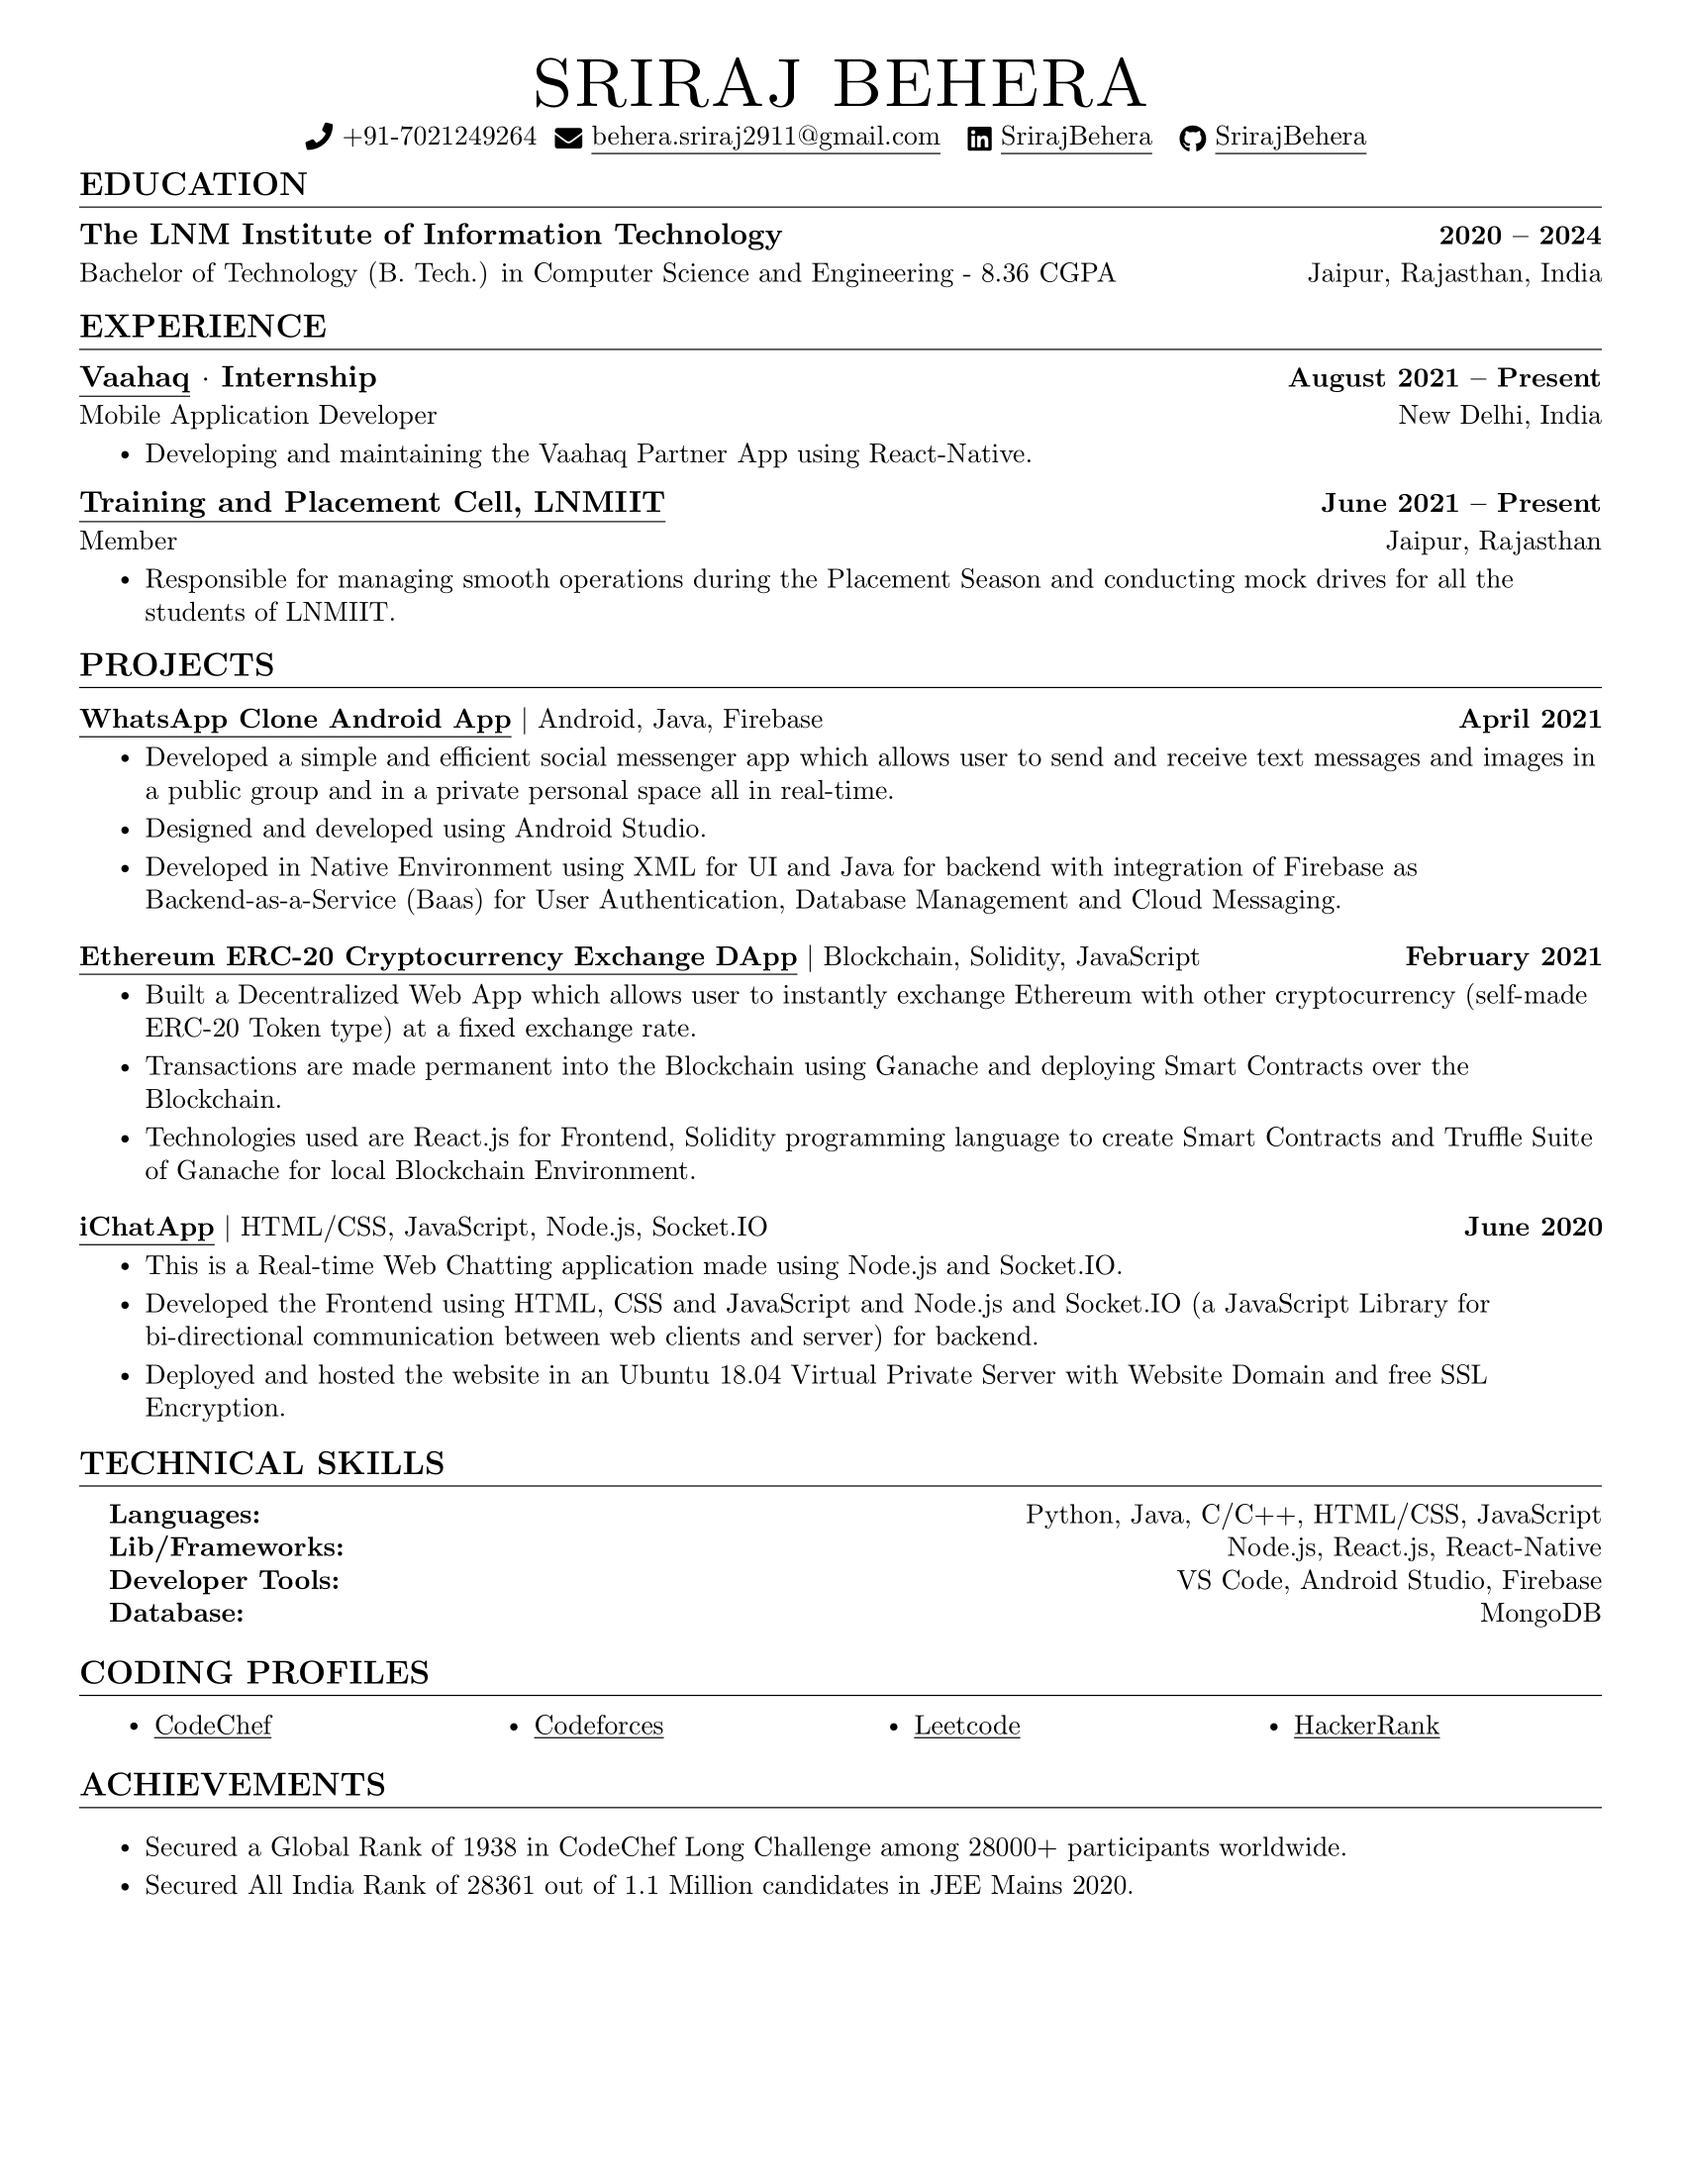
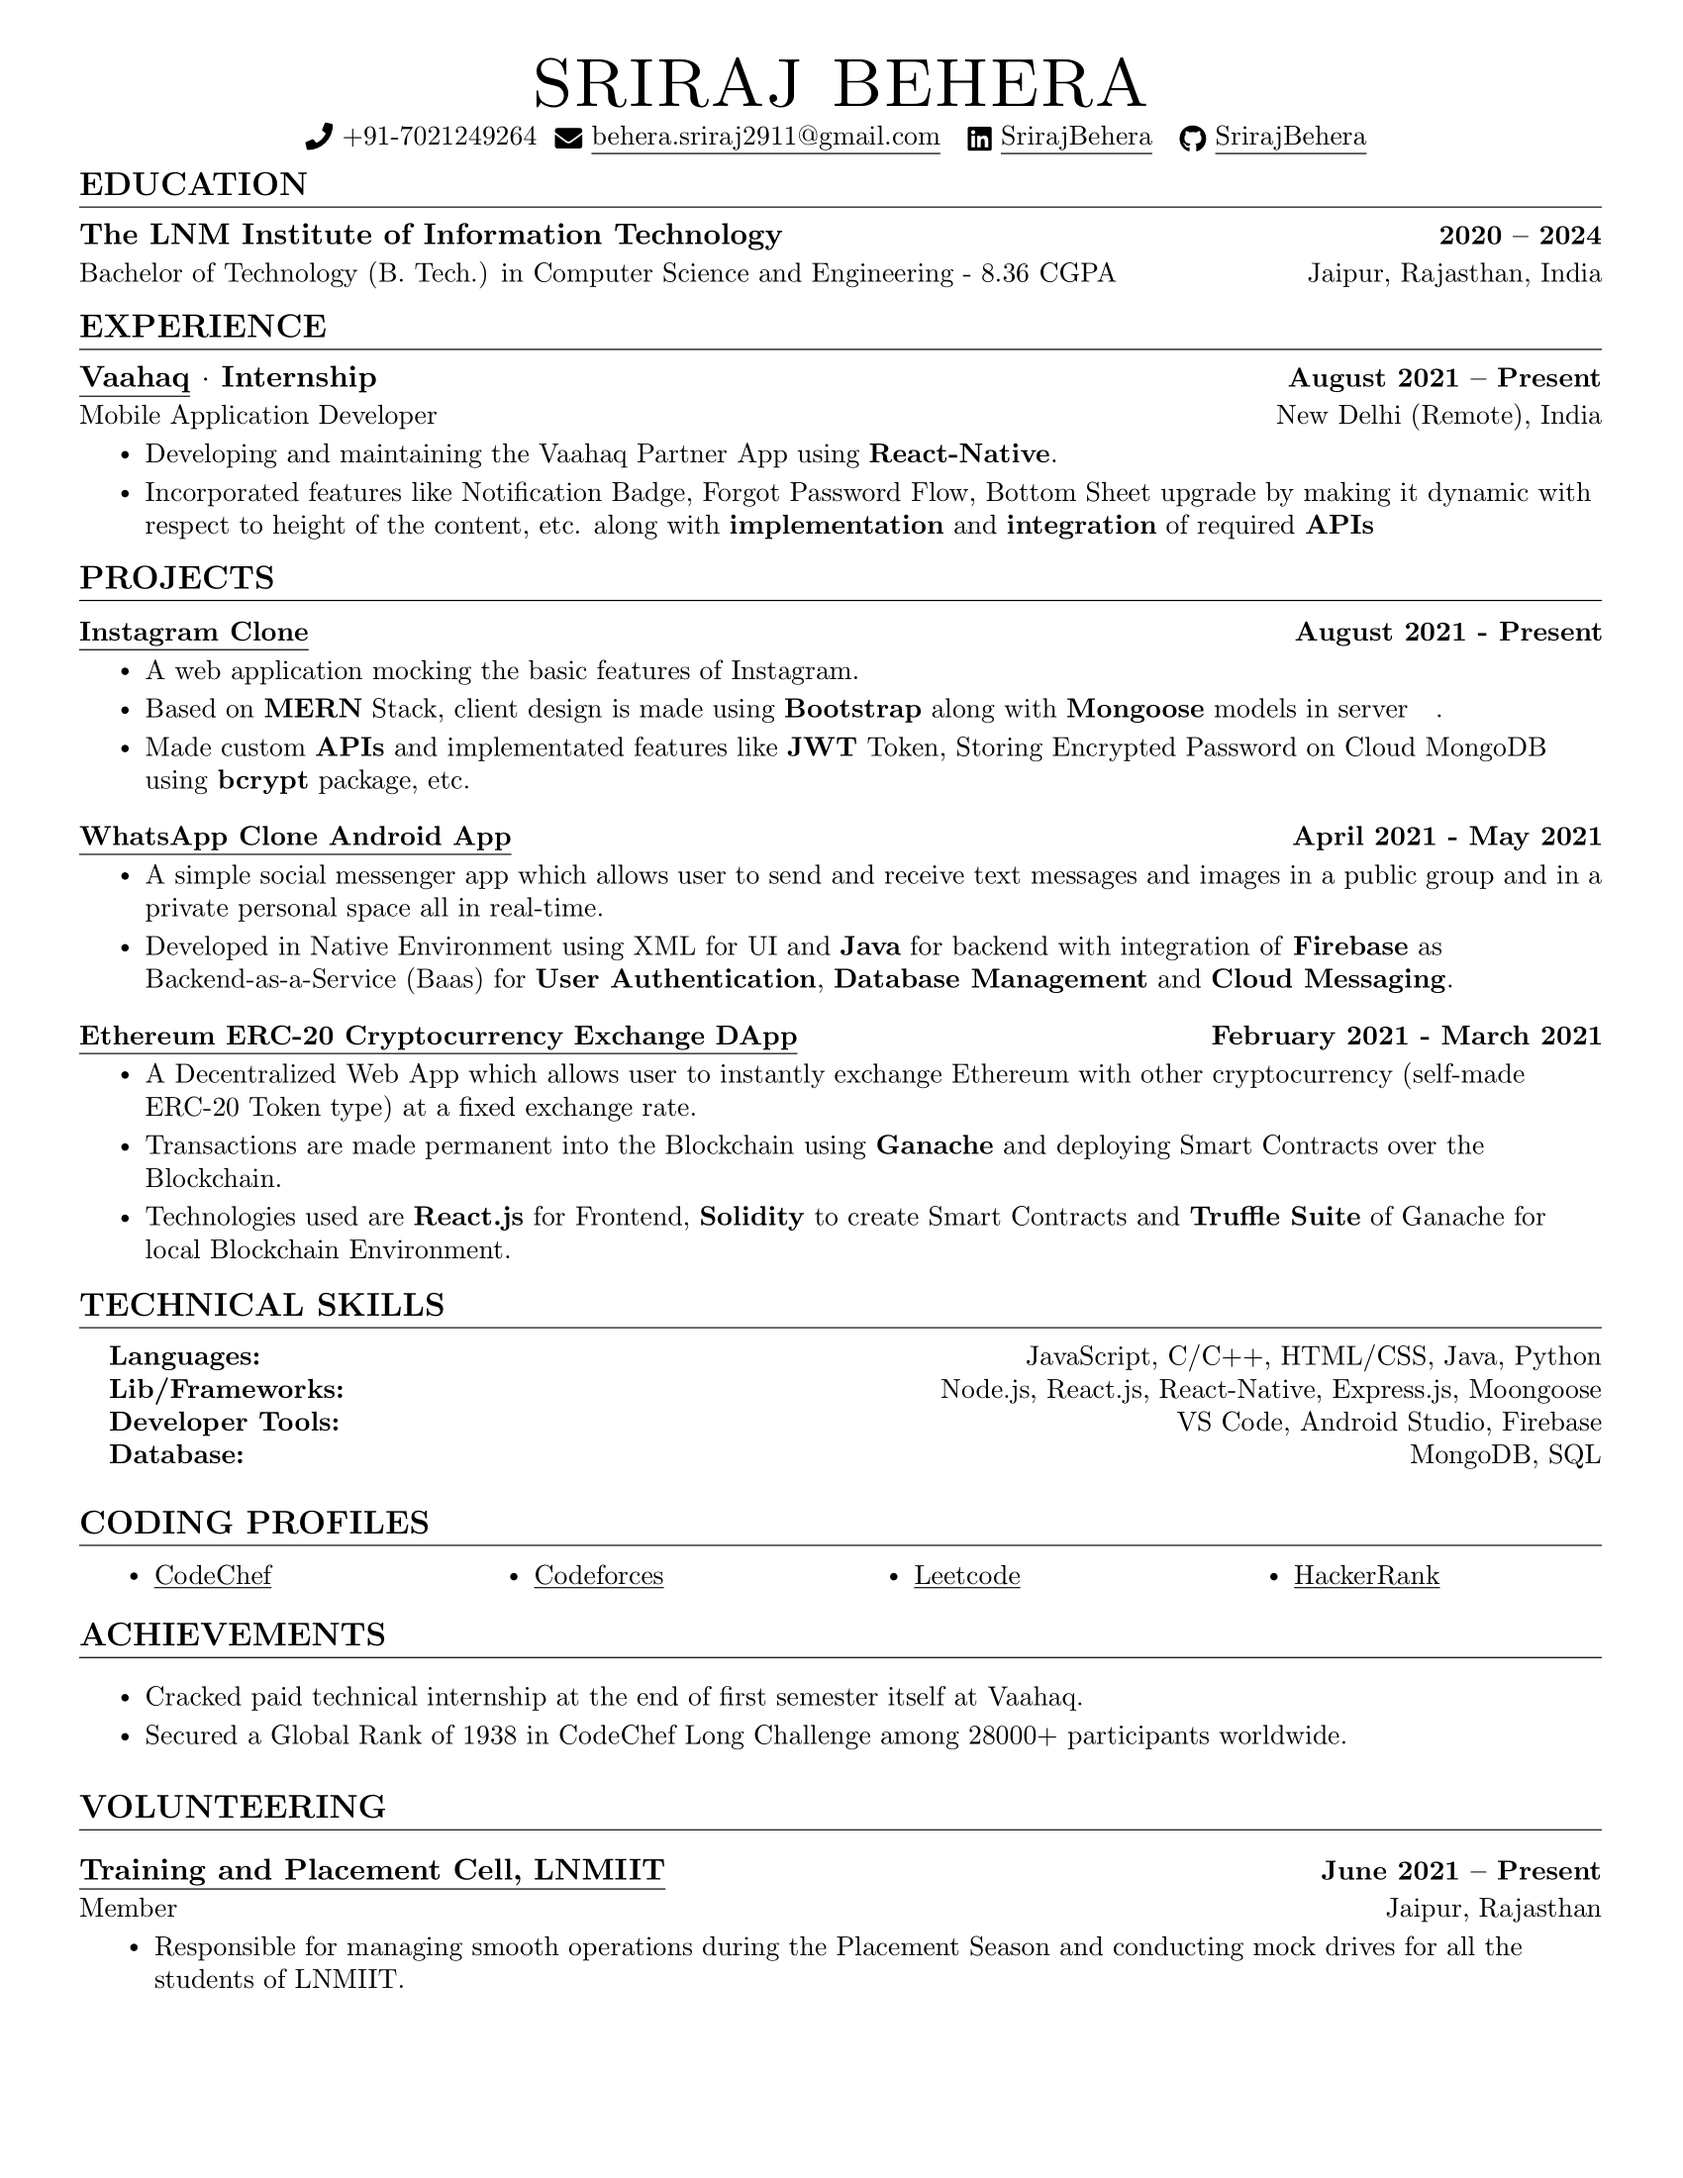
updated_02.12.2021

diff --git a/main.tex b/main.tex
@@ -171,24 +171,23 @@
     \resumeSubheading
         {\underline{\textbf{\href{https://www.vaahaq.com/}{Vaahaq}}} $\cdot$ {Internship}}
       {August 2021 -- Present}
-      {Mobile Application Developer}{New Delhi, India}
+      {Mobile Application Developer}{New Delhi (Remote), India}
       \resumeItemListStart
-        \resumeItem{Developing and maintaining the Vaahaq Partner App using React-Native.}
-        % \resumeItem{Incorporated scripts using Python and PowerShell to aggregate XML test results into an organized format and to load the latest build code onto the hardware, so that daily testing can be performed.}
-        % \resumeItem{Utilized Jenkins to provide a continuous integration service in order to automate the entire process of loading the latest build code and test files, running the tests, and generating a report of the results once per day.}
+        \resumeItem{Developing and maintaining the Vaahaq Partner App using {\textbf{React-Native}}.}
+        \resumeItem{Incorporated features like Notification Badge, Forgot Password Flow, Bottom Sheet upgrade by making it dynamic with respect to height of the content, etc. along with {\textbf{implementation}} and {\textbf{integration}} of required {\textbf{APIs}}}
         % \resumeItem{Explored ways to visualize and send a daily report of test results to team members  using HTML, Javascript, and CSS.}
       \resumeItemListEnd
     
-    \resumeSubheading
-        {\underline{\textbf{\href{http://placements.lnmiit.ac.in/}{Training and Placement Cell, LNMIIT}}}}
-      {June 2021 -- Present}
-      {Member}{Jaipur, Rajasthan}
-      \resumeItemListStart
-        \resumeItem{Responsible for managing smooth operations during the Placement Season and conducting mock drives for all the students of LNMIIT.}
+    %\resumeSubheading
+        %{\underline{\textbf{\href{http://placements.lnmiit.ac.in/}{Training and Placement Cell, LNMIIT}}}}
+      %{June 2021 -- Present}
+      %{Member}{Jaipur, Rajasthan}
+      %\resumeItemListStart
+        %\resumeItem{Responsible for managing smooth operations during the Placement Season and conducting mock drives for all the students of LNMIIT.}
         % \resumeItem{Incorporated scripts using Python and PowerShell to aggregate XML test results into an organized format and to load the latest build code onto the hardware, so that daily testing can be performed.}
         % \resumeItem{Utilized Jenkins to provide a continuous integration service in order to automate the entire process of loading the latest build code and test files, running the tests, and generating a report of the results once per day.}
         % \resumeItem{Explored ways to visualize and send a daily report of test results to team members  using HTML, Javascript, and CSS.}
-      \resumeItemListEnd
+      %\resumeItemListEnd
 
     % \resumeSubheading
     %   {Startup, Inc}{May 2019 -- August 2019}
@@ -208,29 +207,37 @@
     \vspace{-5pt}
     \resumeSubHeadingListStart
       \resumeProjectHeading
-          {\underline{\textbf{\href{https://github.com/SrirajBehera/WhatsApp-Clone-Android-App}{WhatsApp Clone Android App}}} $|$ {Android, Java, Firebase}}{April 2021}
+          {\underline{\textbf{\href{https://github.com/SrirajBehera/Instagram-Clone-MERN}{Instagram Clone}}}}{August 2021 - Present}
           \resumeItemListStart
-            \resumeItem{Developed a simple and efficient social messenger app which allows user to send and receive text messages and images in a public group and in a private personal space all in real-time.}
-            \resumeItem{Designed and developed using Android Studio.}
-            \resumeItem{Developed in Native Environment using XML for UI and Java for backend with integration of Firebase as Backend-as-a-Service (Baas) for User Authentication, Database Management and Cloud Messaging.}
+            \resumeItem{A web application mocking the basic features of Instagram.}
+            \resumeItem{Based on {\textbf{MERN}} Stack, client design is made using {\textbf{Bootstrap}} along with {\textbf{Mongoose}} models in server}.
+            \resumeItem{Made custom {\textbf{APIs}} and implementated features like {\textbf{JWT}} Token, Storing Encrypted Password on Cloud MongoDB using {\textbf{bcrypt}} package, etc.}
+          \resumeItemListEnd
+          \vspace{-13pt}
+      \resumeProjectHeading
+          {\underline{\textbf{\href{https://github.com/SrirajBehera/WhatsApp-Clone-Android-App}{WhatsApp Clone Android App}}}}{April 2021 - May 2021}
+          \resumeItemListStart
+            \resumeItem{A simple social messenger app which allows user to send and receive text messages and images in a public group and in a private personal space all in real-time.}
+            %\resumeItem{Designed and developed using Android Studio.}
+            \resumeItem{Developed in Native Environment using XML for UI and {\textbf{Java}} for backend with integration of {\textbf{Firebase}} as Backend-as-a-Service (Baas) for {\textbf{User Authentication}}, {\textbf{Database Management}} and {\textbf{Cloud Messaging}}.}
             % \resumeItem{Used Cron to schedule the program to execute automatically at 11 AM every morning so a reservation is made for me.}
           \resumeItemListEnd
           \vspace{-13pt}
       \resumeProjectHeading
-          {\underline{\textbf{\href{https://github.com/SrirajBehera/Ethereum-ERC-20-CryptoCurrency-Exchange-DApp}{Ethereum ERC-20 Cryptocurrency Exchange DApp}}} $|$ {Blockchain, Solidity, JavaScript}}{February 2021}
+          {\underline{\textbf{\href{https://github.com/SrirajBehera/Ethereum-ERC-20-CryptoCurrency-Exchange-DApp}{Ethereum ERC-20 Cryptocurrency Exchange DApp}}}}{February 2021 - March 2021}
           \resumeItemListStart
-            \resumeItem{Built a Decentralized Web App which allows user to instantly exchange Ethereum with other cryptocurrency (self-made ERC-20 Token type) at a fixed exchange rate.}
-            \resumeItem{Transactions are made permanent into the Blockchain using Ganache and deploying Smart Contracts over the Blockchain.}
-            \resumeItem{Technologies used are React.js for Frontend, Solidity programming language to create Smart Contracts and Truffle Suite of Ganache for local Blockchain Environment.}
+            \resumeItem{A Decentralized Web App which allows user to instantly exchange Ethereum with other cryptocurrency (self-made ERC-20 Token type) at a fixed exchange rate.}
+            \resumeItem{Transactions are made permanent into the Blockchain using {\textbf{Ganache}} and deploying Smart Contracts over the Blockchain.}
+            \resumeItem{Technologies used are {\textbf{React.js}} for Frontend, {\textbf{Solidity}} to create Smart Contracts and {\textbf{Truffle Suite}} of Ganache for local Blockchain Environment.}
           \resumeItemListEnd 
-          \vspace{-13pt}
-          \resumeProjectHeading
-          {\underline{\textbf{\href{https://github.com/SrirajBehera/iChatApp}{iChatApp}}} $|$ {HTML/CSS, JavaScript, Node.js, Socket.IO}}{June 2020}
-          \resumeItemListStart
-            \resumeItem{This is a Real-time Web Chatting application made using Node.js and Socket.IO.}
-            \resumeItem{Developed the Frontend using HTML, CSS and JavaScript and Node.js and Socket.IO (a JavaScript Library for bi-directional communication between web clients and server) for backend.}
-            \resumeItem{Deployed and hosted the website in an Ubuntu 18.04 Virtual Private Server with Website Domain and free SSL Encryption.}
-          \resumeItemListEnd 
+          %\vspace{-13pt}
+          %\resumeProjectHeading
+          %{\underline{\textbf{\href{https://github.com/SrirajBehera/iChatApp}{iChatApp}}} $|$ {HTML/CSS, JavaScript, Node.js, Socket.IO}}{June 2020}
+          %\resumeItemListStart
+            %\resumeItem{This is a Real-time Web Chatting application made using Node.js and Socket.IO.}
+            %\resumeItem{Developed the Frontend using HTML, CSS and JavaScript and Node.js and Socket.IO (a JavaScript Library for bi-directional communication between web clients and server) for backend.}
+            %\resumeItem{Deployed and hosted the website in an Ubuntu 18.04 Virtual Private Server with Website Domain and free SSL Encryption.}
+          %\resumeItemListEnd 
     \resumeSubHeadingListEnd
 \vspace{-15pt}
 
@@ -240,13 +247,13 @@
 \section{TECHNICAL SKILLS}
  \begin{itemize}[leftmargin=0.15in, label={}]
     \small{\item{
-     \textbf{Languages:}{ \hfill Python, Java, C/C++, HTML/CSS, JavaScript} \\
-     \textbf{Lib/Frameworks:}{ \hfill Node.js, React.js, React-Native} \\
+     \textbf{Languages:}{ \hfill JavaScript, C/C++, HTML/CSS, Java, Python} \\
+     \textbf{Lib/Frameworks:}{ \hfill Node.js, React.js, React-Native, Express.js, Moongoose} \\
      \textbf{Developer Tools:}{ \hfill VS Code, Android Studio, Firebase} \\
-     \textbf{Database:}{ \hfill MongoDB} \\
+     \textbf{Database:}{ \hfill MongoDB, SQL} \\
     }}
  \end{itemize}
- \vspace{-16pt}
+ \vspace{-13pt}
 
 %-----------Coding Profile---------------
 \section{CODING PROFILES}
@@ -269,11 +276,21 @@
     \resumeSubHeadingListStart
     %     \resumeSubheading{Fraternity}{Spring 2020 -- Present}{President}{University Name}
             \resumeItemListStart
-                \resumeItem{Secured a Global Rank of 1938 in CodeChef Long Challenge among 28000+ participants worldwide.}
-                \resumeItem{Secured All India Rank of 28361 out of 1.1 Million candidates in JEE Mains 2020.}
+                \resumeItem{Cracked paid technical internship at the end of first semester itself at Vaahaq.}
+            \resumeItem{Secured a Global Rank of 1938 in CodeChef Long Challenge among 28000+ participants worldwide.}
             \resumeItemListEnd
         
     \resumeSubHeadingListEnd
+    
+
+%-----------Volunteering---------------
+\section{VOLUNTEERING}
+    \resumeSubheading
+        {\underline{\textbf{\href{http://placements.lnmiit.ac.in/}{Training and Placement Cell, LNMIIT}}}}
+      {June 2021 -- Present}
+      {Member}{Jaipur, Rajasthan}
+      \resumeItemListStart
+        \resumeItem{Responsible for managing smooth operations during the Placement Season and conducting mock drives for all the students of LNMIIT.}
 
 
 \end{document}
